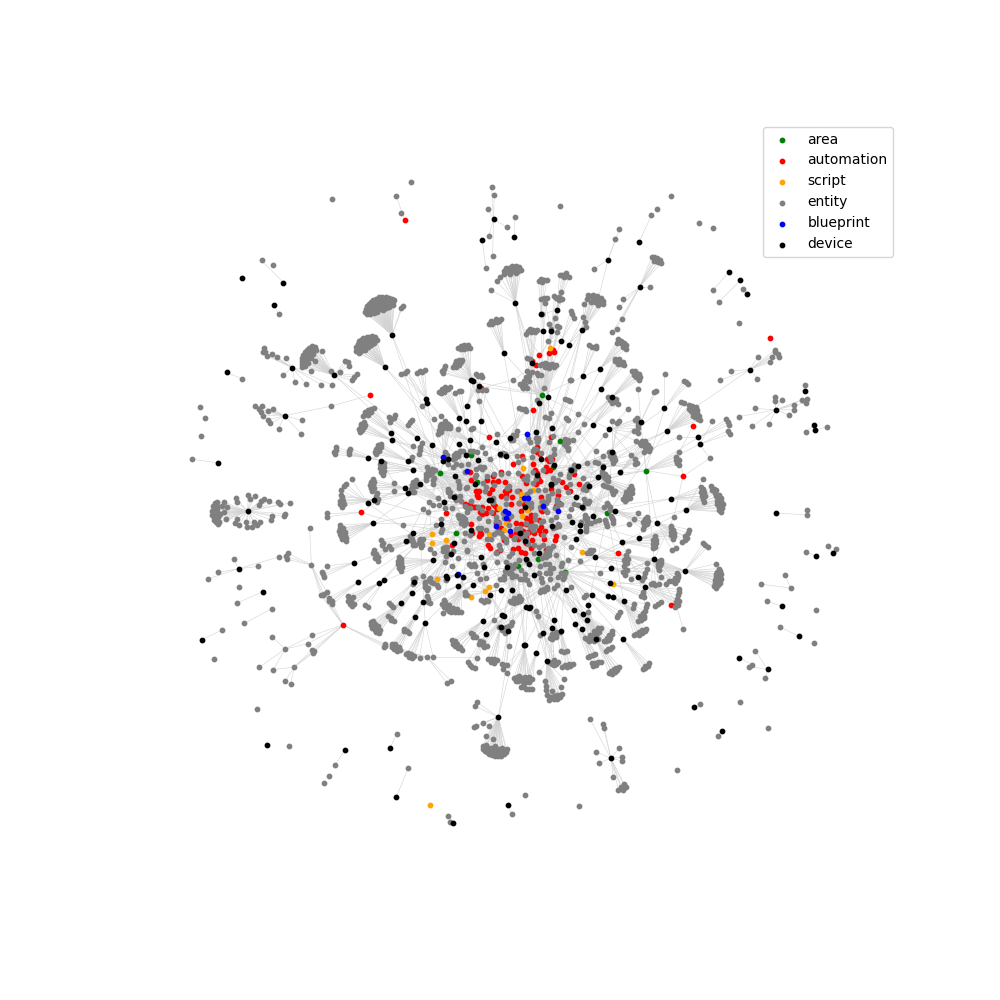
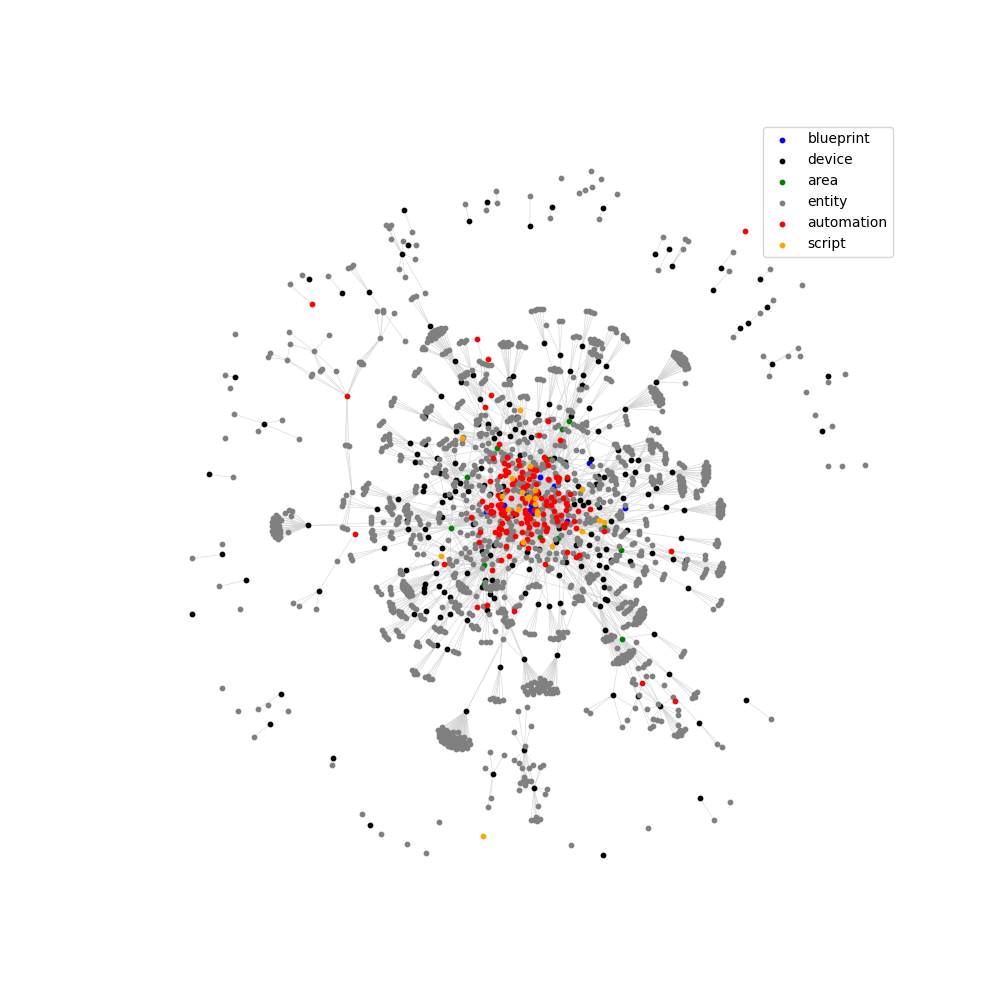
Prune unused entities

diff --git a/README.md b/README.md
@@ -23,7 +23,7 @@ The network topology demonstrates some principles we employ in setting up our sy
 Domain | Quantity
 -- | --
 [`automation`](https://www.home-assistant.io/components/automation) | 144
-[`binary_sensor`](https://www.home-assistant.io/components/binary_sensor) | 182
+[`binary_sensor`](https://www.home-assistant.io/components/binary_sensor) | 172
 [`button`](https://www.home-assistant.io/components/button) | 161
 [`calendar`](https://www.home-assistant.io/components/calendar) | 7
 [`camera`](https://www.home-assistant.io/components/camera) | 4
@@ -40,23 +40,23 @@ Domain | Quantity
 [`input_text`](https://www.home-assistant.io/components/input_text) | 33
 [`light`](https://www.home-assistant.io/components/light) | 64
 [`media_player`](https://www.home-assistant.io/components/media_player) | 3
-[`number`](https://www.home-assistant.io/components/number) | 241
+[`number`](https://www.home-assistant.io/components/number) | 83
 [`person`](https://www.home-assistant.io/components/person) | 3
 [`remote`](https://www.home-assistant.io/components/remote) | 5
-[`script`](https://www.home-assistant.io/components/script) | 23
-[`select`](https://www.home-assistant.io/components/select) | 62
-[`sensor`](https://www.home-assistant.io/components/sensor) | 630
+[`script`](https://www.home-assistant.io/components/script) | 22
+[`select`](https://www.home-assistant.io/components/select) | 22
+[`sensor`](https://www.home-assistant.io/components/sensor) | 518
 [`stt`](https://www.home-assistant.io/components/stt) | 1
 [`sun`](https://www.home-assistant.io/components/sun) | 1
 [`switch`](https://www.home-assistant.io/components/switch) | 43
 [`time`](https://www.home-assistant.io/components/time) | 2
 [`tts`](https://www.home-assistant.io/components/tts) | 2
-[`update`](https://www.home-assistant.io/components/update) | 127
+[`update`](https://www.home-assistant.io/components/update) | 126
 [`vacuum`](https://www.home-assistant.io/components/vacuum) | 1
 [`wake_word`](https://www.home-assistant.io/components/wake_word) | 1
 [`weather`](https://www.home-assistant.io/components/weather) | 1
 [`zone`](https://www.home-assistant.io/components/zone) | 1
-Total | 1847
+Total | 1525
 
 ## Core Integrations
 - [AdGuard](https://home-assistant.io/integrations/adguard)
